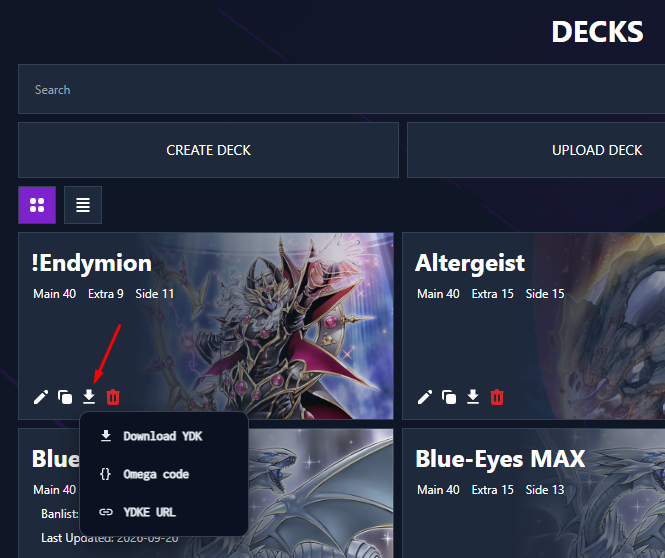
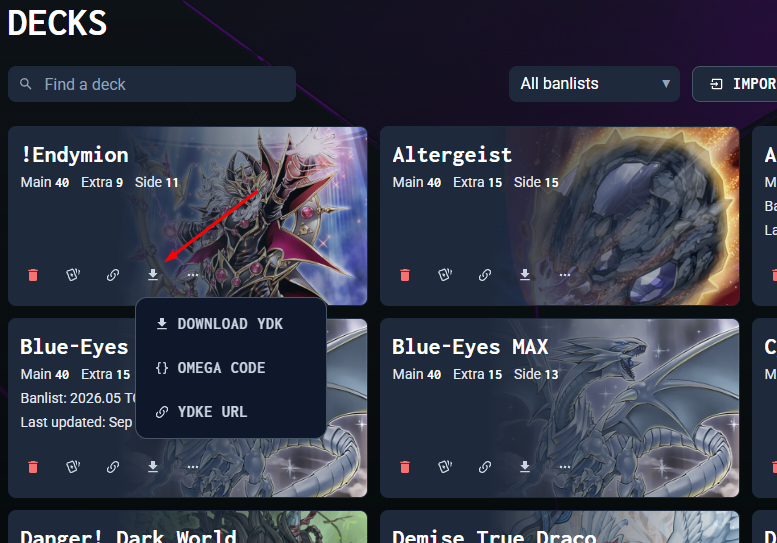
Update README, content scripts, and manifest for improved export options and version bump

diff --git a/content.js b/content.js
@@ -3,6 +3,9 @@
 
     const BTN_CLASS = "ydke-export-btn";
     const ICON_DOWNLOAD = "M5 20h14v-2H5v2zM19 9h-4V3H9v6H5l7 7 7-7z";
+    const ICON_UPLOAD = "M9 16v-6H5l7-7l7 7h-4v6zm-4 4v-2h14v2z";
+    const ICON_OMEGA = "M8 3a2 2 0 0 0-2 2v4a2 2 0 0 1-2 2H3v2h1a2 2 0 0 1 2 2v4a2 2 0 0 0 2 2h2v-2H8v-5a2 2 0 0 0-2-2a2 2 0 0 0 2-2V5h2V3m6 0a2 2 0 0 1 2 2v4a2 2 0 0 0 2 2h1v2h-1a2 2 0 0 0-2 2v4a2 2 0 0 1-2 2h-2v-2h2v-5a2 2 0 0 1 2-2a2 2 0 0 1-2-2V5h-2V3z";
+    const ICON_YDKE_LINK = "M10.59 13.41c.41.39.41 1.03 0 1.42c-.39.39-1.03.39-1.42 0a5.003 5.003 0 0 1 0-7.07l3.54-3.54a5.003 5.003 0 0 1 7.07 0a5.003 5.003 0 0 1 0 7.07l-1.49 1.49c.01-.82-.12-1.64-.4-2.42l.47-.48a2.98 2.98 0 0 0 0-4.24a2.98 2.98 0 0 0-4.24 0l-3.53 3.53a2.98 2.98 0 0 0 0 4.24m2.82-4.24c.39-.39 1.03-.39 1.42 0a5.003 5.003 0 0 1 0 7.07l-3.54 3.54a5.003 5.003 0 0 1-7.07 0a5.003 5.003 0 0 1 0-7.07l1.49-1.49c-.01.82.12 1.64.4 2.43l-.47.47a2.98 2.98 0 0 0 0 4.24a2.98 2.98 0 0 0 4.24 0l3.53-3.53a2.98 2.98 0 0 0 0-4.24a.973.973 0 0 1 0-1.42";
 
     function toBase64(ids) {
         const buffer = new ArrayBuffer(ids.length * 4);
@@ -30,20 +33,6 @@
         );
     }
 
-    // Current site (Vue 2): the deck list component is reachable from the root element.
-    function findDecksComponent() {
-        const root = document.getElementById("app");
-        const start = root && root.__vue__;
-        if (!start) return null;
-        const stack = [start];
-        while (stack.length) {
-            const vm = stack.pop();
-            if (Array.isArray(vm.decks) && typeof vm.retrieveDecks === "function") return vm;
-            if (vm.$children) stack.push(...vm.$children);
-        }
-        return null;
-    }
-
     let deckListCache = null;
     async function fetchDeckList() {
         if (deckListCache && Date.now() - deckListCache.time < 5000) return deckListCache.decks;
@@ -55,24 +44,17 @@
     }
 
     async function resolveDeck(actions, li) {
-        // Beta site (Vue 3): the actions component receives the deck as a prop.
+        // The current site passes the deck to its Vue 3 actions component.
         let inst = actions.__vueParentComponent;
         for (let i = 0; inst && i < 3; i++, inst = inst.parent) {
             if (inst.props && inst.props.deck) return inst.props.deck;
         }
 
-        const vm = findDecksComponent();
-        if (vm) {
-            const items = Array.from(document.querySelectorAll("li.deck-item"));
-            const deck = (vm.searchedDecks || vm.decks)[items.indexOf(li)];
-            if (deck) return deck;
-        }
-
-        // Fallback: ask the API and match by the editor link id, then by deck name.
+        // Fallback for when the deck isn't exposed on the component instance.
         const decks = await fetchDeckList();
         const hrefs = Array.from(li.querySelectorAll("a[href]")).map((a) => a.getAttribute("href"));
         for (const href of hrefs) {
-            const m = href.match(/(\d+)\/?(?:[?#].*)?$/);
+            const m = href.match(/([^/]+)\/?(?:[?#].*)?$/);
             const found = m && decks.find((d) => String(d.id) === m[1]);
             if (found) return found;
         }
@@ -153,8 +135,8 @@
 
     const OPTIONS = [
         { label: "Download YDK", icon: ICON_DOWNLOAD, viewBox: "0 0 24 24", run: async (deck) => downloadText((deck.name || "deck").replace(/[\\/:*?"<>|]/g, "_") + ".ydk", toYdk(deck)), done: "Downloaded!" },
-        { label: "Omega code", icon: "M8 3a2 2 0 0 0-2 2v4a2 2 0 0 1-2 2H3v2h1a2 2 0 0 1 2 2v4a2 2 0 0 0 2 2h2v-2H8v-5a2 2 0 0 0-2-2 2 2 0 0 0 2-2V5h2V3zm6 0a2 2 0 0 1 2 2v4a2 2 0 0 0 2 2h1v2h-1a2 2 0 0 0-2 2v4a2 2 0 0 1-2 2h-2v-2h2v-5a2 2 0 0 1 2-2 2 2 0 0 1-2-2V5h-2V3z", viewBox: "0 0 24 24", run: async (deck) => copyText(await toOmega(deck)), done: "Omega copied!" },
-        { label: "YDKE URL", icon: "M3.9 12c0-1.71 1.39-3.1 3.1-3.1h4V7H7c-2.76 0-5 2.24-5 5s2.24 5 5 5h4v-1.9H7c-1.71 0-3.1-1.39-3.1-3.1zM8 13h8v-2H8v2zm9-6h-4v1.9h4c1.71 0 3.1 1.39 3.1 3.1s-1.39 3.1-3.1 3.1h-4V17h4c2.76 0 5-2.24 5-5s-2.24-5-5-5z", viewBox: "0 0 24 24", run: async (deck) => copyText(toYdke(deck)), done: "YDKE copied!" },
+        { label: "Omega code", icon: ICON_OMEGA, viewBox: "0 0 24 24", run: async (deck) => copyText(await toOmega(deck)), done: "Omega copied!" },
+        { label: "YDKE URL", icon: ICON_YDKE_LINK, viewBox: "0 0 24 24", run: async (deck) => copyText(toYdke(deck)), done: "YDKE copied!" },
     ];
 
     let openMenu = null;
@@ -168,43 +150,60 @@
 
     function showMenu(btn, options, getArg) {
         closeMenu();
+        const editorMenu = isEditorPage();
         const menu = document.createElement("div");
+        if (editorMenu) {
+            Object.assign(menu.style, {
+                display: "flex",
+                flexDirection: "column",
+                gap: "2px",
+                minWidth: "190px",
+                padding: "6px",
+                background: "#111925",
+                border: "1px solid #777",
+                borderRadius: "3px",
+                boxShadow: "0 8px 24px rgba(0,0,0,.45)",
+            });
+        } else {
+            menu.className = "min-w-48 flex flex-col gap-1 p-1.5 rounded-xl border border-line-strong bg-ink-void shadow-lg";
+        }
         Object.assign(menu.style, {
             position: "fixed",
             zIndex: "2147483647",
-            display: "flex",
-            flexDirection: "column",
-            gap: "2px",
-            padding: "6px",
-            minWidth: "170px",
-            background: "#0b1120",
-            border: "1px solid #334155",
-            borderRadius: "10px",
-            boxShadow: "0 8px 24px rgba(0,0,0,.5)",
-            font: "600 13px/1 Inconsolata, monospace",
-            textTransform: "uppercase",
-            letterSpacing: "0.05em",
         });
 
         options.forEach((opt) => {
             const item = document.createElement("button");
             item.type = "button";
             item.innerHTML =
-                '<svg width="16" height="16" viewBox="' + opt.viewBox + '" fill="currentColor" style="flex:none"><path d="' + opt.icon + '"/></svg>';
+                '<svg width="16" height="16" viewBox="' + opt.viewBox + '" class="iconify iconify--mdi" style="flex:none"><path fill="currentColor" d="' + opt.icon + '"/></svg>';
             item.appendChild(document.createTextNode(opt.label));
-            Object.assign(item.style, {
-                display: "flex",
-                alignItems: "center",
-                gap: "10px",
-                textAlign: "left",
-                padding: "10px 12px",
-                color: "#e2e8f0",
-                background: "transparent",
-                borderRadius: "6px",
-                cursor: "pointer",
-            });
-            item.onmouseenter = () => (item.style.background = "#7e22ce");
-            item.onmouseleave = () => (item.style.background = "transparent");
+            if (editorMenu) {
+                Object.assign(item.style, {
+                    display: "flex",
+                    alignItems: "center",
+                    gap: "8px",
+                    boxSizing: "border-box",
+                    width: "100%",
+                    height: "32px",
+                    margin: "2px 0",
+                    padding: "1px 8px",
+                    color: "#f0f0f0",
+                    background: "#111925",
+                    border: "1px solid #777",
+                    borderRadius: "0",
+                    fontFamily: '"Helvetica Neue", Helvetica, Verdana, Geneva, sans-serif',
+                    fontSize: "14px",
+                    fontWeight: "400",
+                    textAlign: "left",
+                    cursor: "pointer",
+                    transition: "background 150ms ease",
+                });
+                item.onmouseenter = () => (item.style.background = "rgba(64, 64, 64, 0.8)");
+                item.onmouseleave = () => (item.style.background = "#111925");
+            } else {
+                item.className = "flex items-center gap-2 px-3 py-2 rounded-lg font-display text-ui font-bold tracking-wider uppercase text-gray-300 cursor-pointer transition duration-150 ease-out hover:bg-highlight/50 hover:text-paper";
+            }
             item.onclick = async (e) => {
                 e.stopPropagation();
                 e.preventDefault();
@@ -236,30 +235,22 @@
         openMenu = menu;
     }
 
-    function addButton(del) {
-        const actions = del.parentElement;
-        const li = del.closest("li");
-        if (!actions || !li || actions.querySelector("." + BTN_CLASS)) return;
-        const copy = del.previousElementSibling;
-        if (!copy || copy.tagName !== "BUTTON") return;
+    function addButton(copyLink) {
+        const actions = copyLink.parentElement;
+        const li = copyLink.closest("li");
+        const moreActions = actions && actions.querySelector('button[aria-label^="More actions for "]');
+        if (!actions || !li || !moreActions || actions.querySelector("." + BTN_CLASS)) return;
 
-        const btn = copy.cloneNode(true);
+        const btn = copyLink.cloneNode(true);
         btn.classList.add(BTN_CLASS);
-        btn.classList.remove("text-green-400!");
-        btn.title = "Export";
-        btn.setAttribute("aria-label", "Export");
-        const label = btn.querySelector(".button-label");
-        if (label) label.textContent = "Export";
+        const deckName = (copyLink.getAttribute("aria-label") || "").replace(/^Copy link to\s*/, "");
+        btn.title = "Export " + deckName;
+        btn.setAttribute("aria-label", "Export " + deckName);
 
         const svg = btn.querySelector("svg");
         if (!svg) return;
         svg.setAttribute("viewBox", "0 0 24 24");
         svg.innerHTML = '<path fill="currentColor" d="' + ICON_DOWNLOAD + '"/>';
-
-        // The current site's button container is a fixed 3-column grid; make room for the 4th button.
-        if (actions.classList.contains("grid-cols-3")) {
-            actions.style.gridTemplateColumns = "repeat(4, auto)";
-        }
 
         btn.addEventListener("click", (e) => {
             e.stopPropagation();
@@ -271,14 +262,13 @@
                 return deck;
             });
         });
-        actions.insertBefore(btn, del);
+        actions.insertBefore(btn, moreActions);
     }
 
     // ---------- Deck editor (/editor/<id>) ----------
 
-    const ICON_UPLOAD = "M5 20h14v-2H5v2zM9 16h6v-6h4l-7-7-7 7h4v6z";
-    const ICON_BRACES = OPTIONS[1].icon;
-    const ICON_LINK = OPTIONS[2].icon;
+    const ICON_BRACES = ICON_OMEGA;
+    const ICON_LINK = ICON_YDKE_LINK;
 
     function bytesToIds(bin) {
         const out = [];
@@ -477,8 +467,7 @@
 
     function scan() {
         ensureEditorButtons();
-        // The delete button is the only red button inside a deck card on both sites.
-        document.querySelectorAll('li button[class*="text-red-"]').forEach(addButton);
+        document.querySelectorAll('li button[aria-label^="Copy link to "]').forEach(addButton);
     }
 
     let scheduled = false;

diff --git a/README.md b/README.md
@@ -1,12 +1,12 @@
 # Dueling Nexus - Deck Import & Export
 
-A Chrome/Edge (Manifest V3) extension that adds deck import and export to [Dueling Nexus](https://duelingnexus.com) and its [beta site](https://beta.duelingnexus.com).
+A Chrome/Edge (Manifest V3) extension that adds deck import and export to [Dueling Nexus](https://duelingnexus.com).
 
 > Unofficial, fan-made project. Not affiliated with or endorsed by Dueling Nexus.
 
 ## Features
 
-- **Deck list** (`/decks`, both the regular and beta sites): an export button on each deck with three options:
+- **Deck list** (`/decks`): an export button on each deck with three options:
   - **Download YDK** – saves a `.ydk` file
   - **Omega code** – copies an Omega code to the clipboard
   - **YDKE URL** – copies a `ydke://` URL to the clipboard
@@ -16,21 +16,15 @@ A Chrome/Edge (Manifest V3) extension that adds deck import and export to [Dueli
 
 ## Screenshots
 
-### Deck list — regular site
+### Deck list
 
-The export button is available on every deck. Its menu includes Download YDK, Omega code, and YDKE URL.
+The export button is placed alongside the site's existing deck actions. Its menu includes Download YDK, Omega code, and YDKE URL.
 
-![Deck list export menu on the regular Dueling Nexus site](docs/decks.png)
-
-### Deck list — beta site
-
-The same export options are available on the beta deck list.
-
-![Deck list export menu on the Dueling Nexus beta site](docs/decks-beta.png)
+![Dueling Nexus deck list with the extension's export menu](docs/decks.png)
 
 ### Deck editor
 
-The editor toolbar includes separate Import and Export buttons, each with the three supported formats.
+The editor toolbar provides separate Import and Export buttons, each with the three supported formats.
 
 ![Import and export menus in the Dueling Nexus deck editor](docs/editor.png)
 
@@ -44,7 +38,7 @@ The editor toolbar includes separate Import and Export buttons, each with the th
 
 ## Privacy
 
-The extension runs only on `duelingnexus.com` and `beta.duelingnexus.com`. It reads your decks through the site's own session and sends nothing to any third party.
+The extension runs only on `duelingnexus.com`. It reads your decks through the site's own session and sends nothing to any third party.
 
 ## Notes
 
